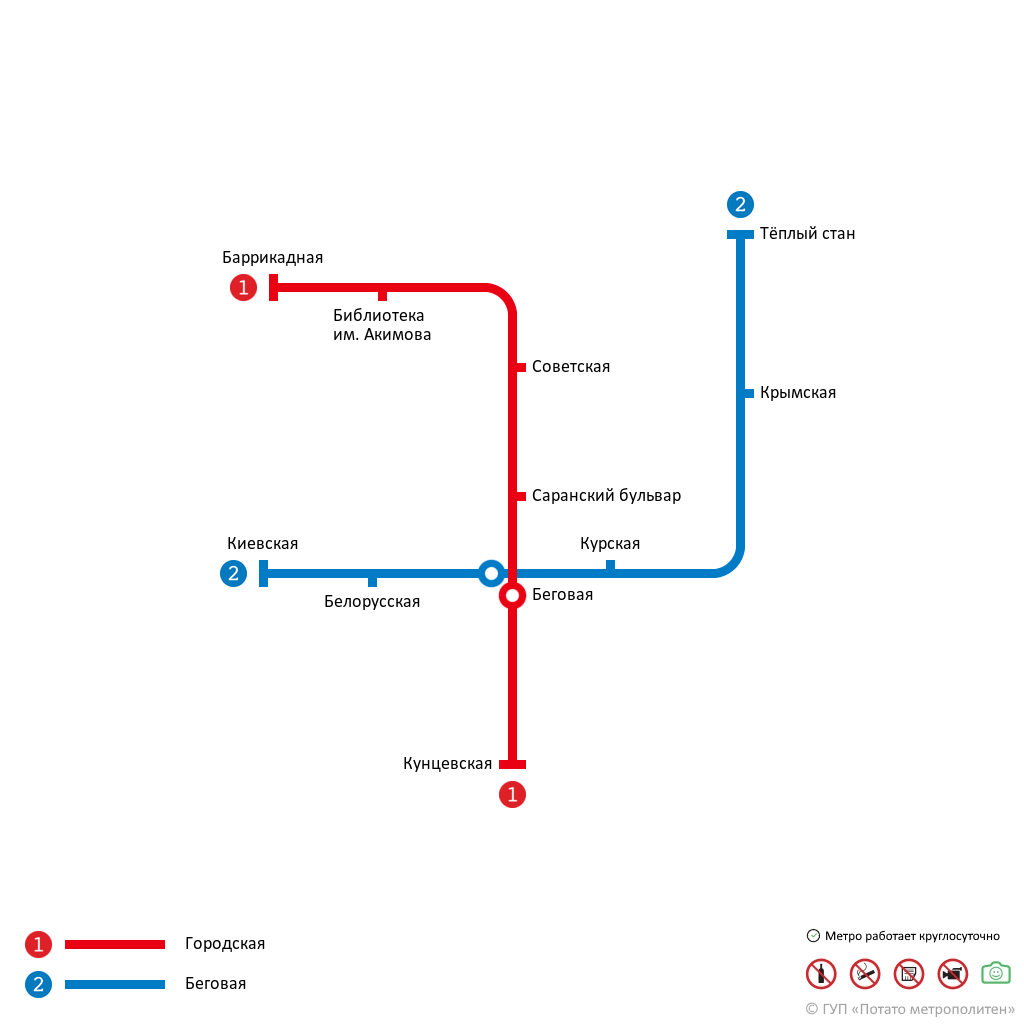
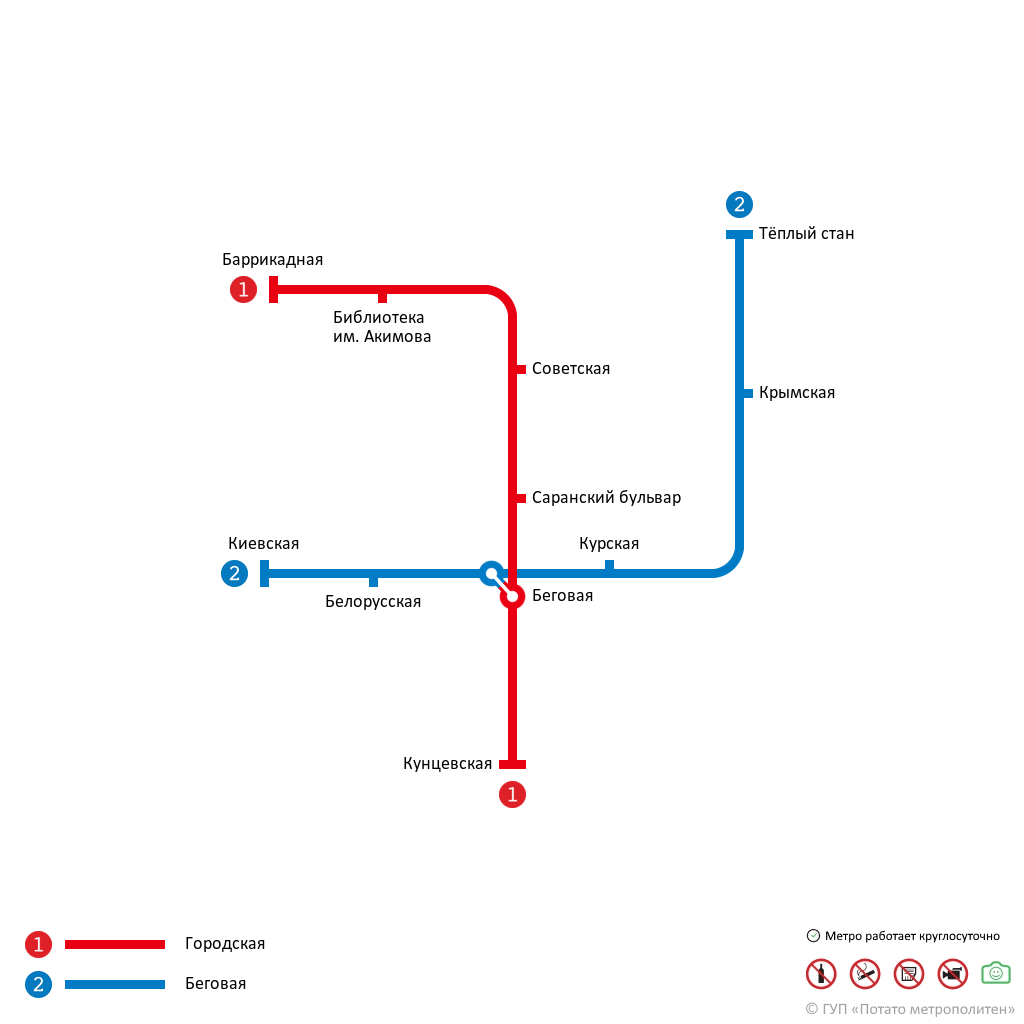
implemented transfers

diff --git a/metro_map_drawer.py b/metro_map_drawer.py
@@ -248,6 +248,82 @@ class MetroMapDrawer:
         metro_map_image.composite(info_img, left=metro_map_image.width - info_img.width,
                                   top=metro_map_image.height - info_img.height)
 
+    def draw_transfer(self, metro_map_image, transfer, stations_centers):
+        def add(point1, point2):
+            return point1[0] + point2[0], point1[1] + point2[1]
+
+        def sub(point1, point2):
+            return add(point1, (-point2[0], -point2[1]))
+
+        def mult(point, number):
+            return point[0] * number, point[1] * number
+
+        def length(point):
+            return (point[0] ** 2 + point[1] ** 2) ** 0.5
+
+        def move_point(point, to_point, delta):
+            dv = sub(to_point, point)
+            dv = mult(dv, delta / length(dv))
+            return add(point, dv)
+
+        color1 = None
+        color2 = None
+        mcd1 = False
+        mcd2 = False
+        for line in self._map_data['lines']:
+            if line['name'] == transfer['station1']['line_name']:
+                color1 = MetroMapDrawer.get_line_img(line)[0, 0]
+                mcd1 = line['type'] == "mcd"
+            if line['name'] == transfer['station2']['line_name']:
+                color2 = MetroMapDrawer.get_line_img(line)[0, 0]
+                mcd2 = line['type'] == "mcd"
+
+        coords1 = tuple(stations_centers[(transfer["station1"]["line_name"], transfer["station1"]["station_name"])])
+        coords2 = tuple(stations_centers[(transfer["station2"]["line_name"], transfer["station2"]["station_name"])])
+        mid = mult(add(coords1, coords2), 0.5)
+
+        if transfer['direct']:
+            moved_coords1 = move_point(coords1, mid, 10)
+            moved_coords2 = move_point(coords2, mid, 10)
+
+            with Drawing() as draw:
+                draw.stroke_color = color1
+                draw.stroke_width = 9
+                draw.line(moved_coords1, mid)
+                draw(metro_map_image)
+
+                draw.stroke_color = color2
+                draw.stroke_width = 9
+                draw.line(moved_coords2, mid)
+                draw(metro_map_image)
+
+                draw.stroke_color = Color('white')
+                draw.stroke_width = 3
+                if mcd1:
+                    coords1 = move_point(coords1, mid, 7)
+                if mcd2:
+                    coords2 = move_point(coords2, mid, 7)
+                draw.line(coords1, coords2)
+                draw(metro_map_image)
+        else:
+            moved_coords1 = move_point(coords1, mid, 12.5 + mcd1)
+            moved_coords2 = move_point(coords2, mid, 12.5 + mcd2)
+
+            dist = length(sub(moved_coords1, moved_coords2))
+            count = max(2, int(round(dist) / 6 + 0.5))
+
+            delta = dist / count
+
+            cur_coord = move_point(moved_coords1, moved_coords2, (dist - delta * (count - 2)) / 2)
+
+            for i in range(count - 1):
+                with Drawing() as draw:
+                    draw.stroke_color = Color("rgb(134, 164, 193)")
+                    draw.fill_color = draw.stroke_color
+                    draw.circle(cur_coord, add(cur_coord, (0.75, 0)))
+                    draw(metro_map_image)
+                    cur_coord = move_point(cur_coord, moved_coords2, delta)
+
     def get_metro_map(self):
         metro_map_image = Image(height=self._map_data["image_resolution"][0],
                                 width=self._map_data["image_resolution"][1], background=Color('white'))
@@ -256,10 +332,13 @@ class MetroMapDrawer:
         for line in sorted(self._map_data["lines"], key=cmp_to_key(cmp)):
             stations_centers.update(self.draw_line(line, metro_map_image))
 
-        self.draw_lines_info(metro_map_image)
-
         for line in self._map_data["lines"]:
             self.draw_line_stations_names(metro_map_image, line, stations_centers, self._map_data['font_filename'])
+
+        for transfer in self._map_data["transfers"]:
+            self.draw_transfer(metro_map_image, transfer, stations_centers)
+
+        self.draw_lines_info(metro_map_image)
 
         self.draw_info(metro_map_image)
 

diff --git a/create_elements.py b/create_elements.py
@@ -93,12 +93,12 @@ def get_station(line, orientation):
 def get_transfer(line, mcd, orientation):
     transfer = line.clone()
     transfer.virtual_pixel = 'transparent'
-    if mcd:
-        transfer.resize(44, transfer.height + 1)
+    if not mcd:
+        transfer.resize(64, transfer.height)
         transfer.distort('arc', (360, 0))
-        transfer.resize(25, 25)
+        transfer.resize(27, 27)
     else:
-        transfer.resize(70, transfer.height)
+        transfer.resize(44, transfer.height + 1)
         transfer.distort('arc', (360, 0))
         transfer.resize(29, 29)
 
@@ -111,14 +111,16 @@ def get_transfer(line, mcd, orientation):
     base.composite(transfer)
 
     line_part = line.clone()
-    line_part.resize(width=4)
-    line_part_base = Image(width=5, height=line.height)
+    line_part.resize(width=3)
+    line_part_base = Image(width=6, height=line.height)
     line_part_base.virtual_pixel = 'transparent'
     line_part_base.composite(line_part)
 
     for i in range(line_part_base.height):
         if 3 <= i < 6:
+            line_part_base[3, i] = line[0, i]
             line_part_base[4, i] = line[0, i]
+            line_part_base[5, i] = line[0, i]
 
     if orientation.name in [Orientation.HORIZONTAL.name, Orientation.VERTICAL.name]:
         base.composite(line_part_base, top=(base.height-line.height)//2)

diff --git a/main.py b/main.py
@@ -1,6 +1,7 @@
 import json
+import os
 
-from metro_map_drawer import *
+from metro_map_drawer import MetroMapDrawer
 
 
 map_data = json.loads(open('input.json', 'r').read())
